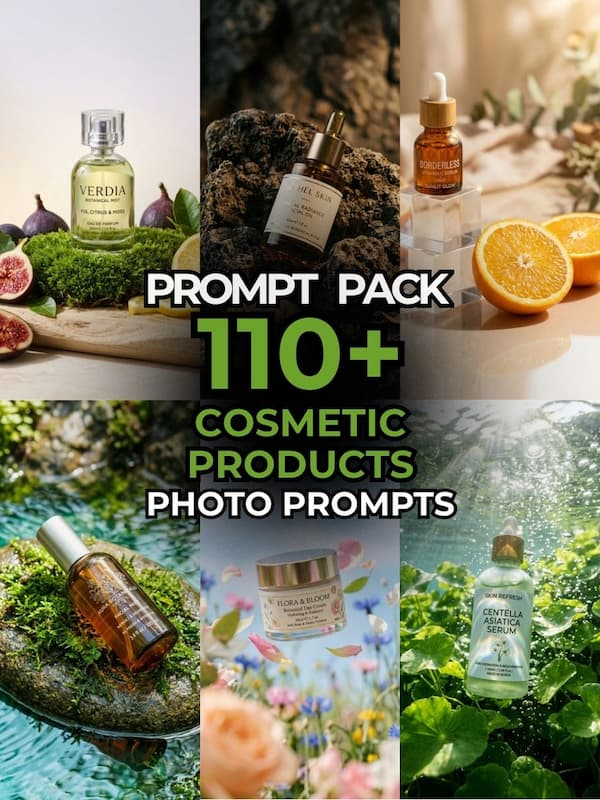
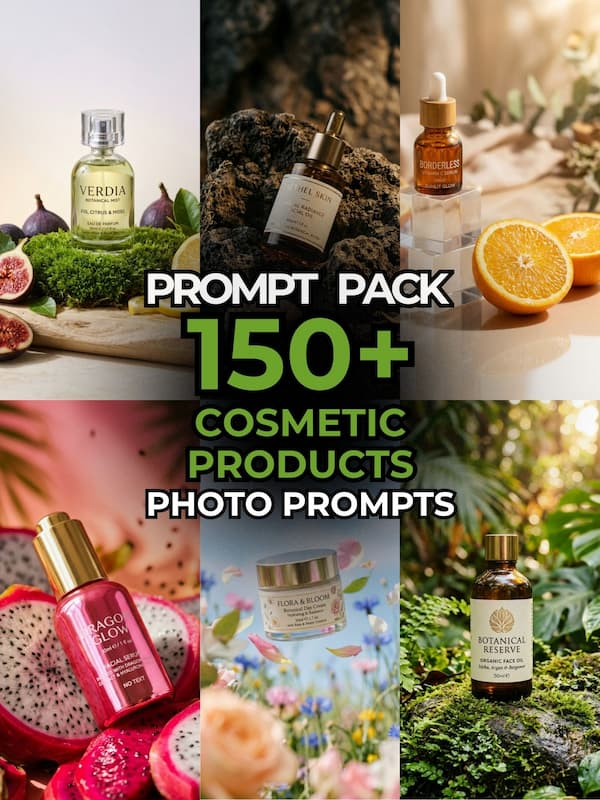
Update images for cosmetic-product-photo-prompts

diff --git a/src/content/promptbooks/index.ts b/src/content/promptbooks/index.ts
@@ -291,12 +291,12 @@ export const PROMTBOOKS: Record<string, PromptBookRaw> = {
   "cosmetic-product-photo-prompts": {
     id: 25,
     gumroadSlug: "cosmetic-product-photo-prompts",
-    number: 110,
+    number: 150,
     isGrowing: true,
     tags: ["cosmetic", "product"],
     mainCategory: "product",
     type: "pack",
-    images: [1, 3, 4, 5, 6, 7, 8, 9, 10, 11, 12, 13, 14, 15],
+    images: [2, 3, 4, 5, 6, 7, 8, 9, 10, 11, 12, 13, 14, 15],
   },
   "8-advertising-photo-prompts-vol-1": {
     id: 26,
